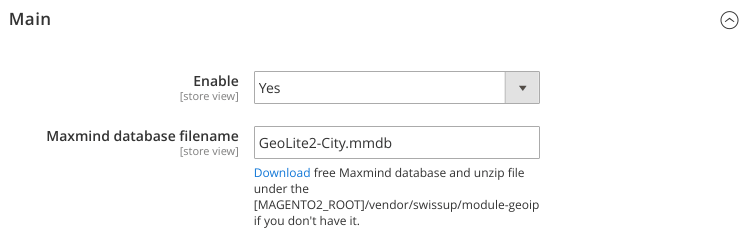
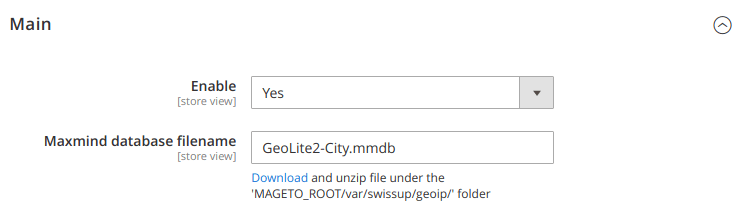
Geoip M2: 1.2.0

Changed region(s): [[0.0621, 0.2791, 0.7449, 0.9488], [0.0, 0.0558, 0.0931, 0.1395], [0.9622, 0.0279, 0.9933, 0.1674]]

diff --git a/m2/extensions/geoip/maxmind-databases.md b/m2/extensions/geoip/maxmind-databases.md
@@ -3,6 +3,7 @@ layout: default
 title: MaxMind GeoIP Databases
 description: What types of GeoIP databases are provided by MaxMind company
 keywords: maxmind
+category: Geoip
 ---
 
 # MaxMind Databases
@@ -27,16 +28,18 @@ than the free one.
 
 ### Where should I put the database?
 
-Put the database into `<magento_root>/vendor/swissup/module-geoip` folder.
+Put the database into `<magento_root>/var/swissup/geoip/` folder.
 
 Example of how to download and unpack free database from the terminal:
 
 ```bash
-cd <magento_root>/vendor/swissup/module-geoip
-wget http://geolite.maxmind.com/download/geoip/database/GeoLite2-City.tar.gz
-mkdir mmdb && tar -xvzf GeoLite2-City.tar.gz -C mmdb --strip 1
-mv mmdb/GeoLite2-City.mmdb GeoLite2-City.mmdb
-rm -rf mmdb GeoLite2-City.tar.gz
+mkdir -p var/swissup/geoip &&\
+cd var/swissup/geoip &&\
+wget http://geolite.maxmind.com/download/geoip/database/GeoLite2-City.tar.gz &&\
+mkdir mmdb && tar -xvzf GeoLite2-City.tar.gz -C mmdb --strip 1 &&\
+mv mmdb/GeoLite2-City.mmdb GeoLite2-City.mmdb &&\
+rm -rf mmdb GeoLite2-City.tar.gz &&\
+cd -
 ```
 
 Make sure that the filename of downloaded database is the same as saved in

diff --git a/m2/extensions/geoip/installation/composer.md b/m2/extensions/geoip/installation/composer.md
@@ -13,12 +13,16 @@ exclude_from_search: true
 
 #### 3. Download latest free maxmind geolite2 database
 
+Copy and execute the following command in the terminal:
+
 ```bash
-cd [magento root]/vendor/swissup/module-geoip
-wget http://geolite.maxmind.com/download/geoip/database/GeoLite2-City.tar.gz
-mkdir mmdb && tar -xvzf GeoLite2-City.tar.gz -C mmdb --strip 1
-mv mmdb/GeoLite2-City.mmdb GeoLite2-City.mmdb
-rm -rf mmdb GeoLite2-City.tar.gz
+mkdir -p var/swissup/geoip &&\
+cd var/swissup/geoip &&\
+wget http://geolite.maxmind.com/download/geoip/database/GeoLite2-City.tar.gz &&\
+mkdir mmdb && tar -xvzf GeoLite2-City.tar.gz -C mmdb --strip 1 &&\
+mv mmdb/GeoLite2-City.mmdb GeoLite2-City.mmdb &&\
+rm -rf mmdb GeoLite2-City.tar.gz &&\
+cd -
 ```
 
 Want to use more accurate database version? Read the

diff --git a/m2/extensions/geoip/configuration.md b/m2/extensions/geoip/configuration.md
@@ -1,7 +1,8 @@
 ---
 layout: default
-title: Geoip
+title: Geoip configuration
 description: GeoIP module configuration
+category: Geoip
 ---
 
 # Configuration
@@ -16,7 +17,7 @@ page.
 Option                    | Description
 --------------------------|------------
 Enable                    | Ability to enable/disable module
-Maxmind database filename | Database file unpacked into `<magento_root>/vendor/swissup/module-geoip` folder
+Maxmind database filename | Database file unpacked into `<magento_root>/var/swissup/geoip/` folder
 
 There are free and paid versions of MaxMind databases. Free version is less
 accurate than the paid one. You can read about them in a

diff --git a/m2/extensions/geoip/changelog.md b/m2/extensions/geoip/changelog.md
@@ -8,6 +8,15 @@ category: Geoip
 
 # Changelog
 
+### Version 1.2.0
+
+> Apr 19, 2019
+
+ -  Fixed invalid shipping methods on initial page load
+ -  A new place for MaxMind database to keep vendor directory clean: `var/swissup/geoip/`.
+    Old location (`vendor/swissup/module-geoip/`) will still work fine though.
+ -  Code cleanup
+
 ### Version 1.1.3
 
 > Mar 27, 2019

diff --git a/m2/extensions/geoip/index.md b/m2/extensions/geoip/index.md
@@ -1,8 +1,9 @@
 ---
 layout: default
 title: Geoip
-description: Automatically detect clients address bu its IP address
+description: Automatically detect client address by its IP address
 keywords: magento2 address autodetection, geoip
+category: Geoip
 ---
 
 # Geoip

diff --git a/m2/extensions/geoip/installation.md b/m2/extensions/geoip/installation.md
@@ -2,11 +2,9 @@
 layout: default
 title: Geoip installation instructions
 description: How to install geoip for Magento 2
-keywords: magento2 geoip installation
 category: Geoip
 ---
 
 # Installation instructions
 
 {% include installation/m2/index.html %}
-
